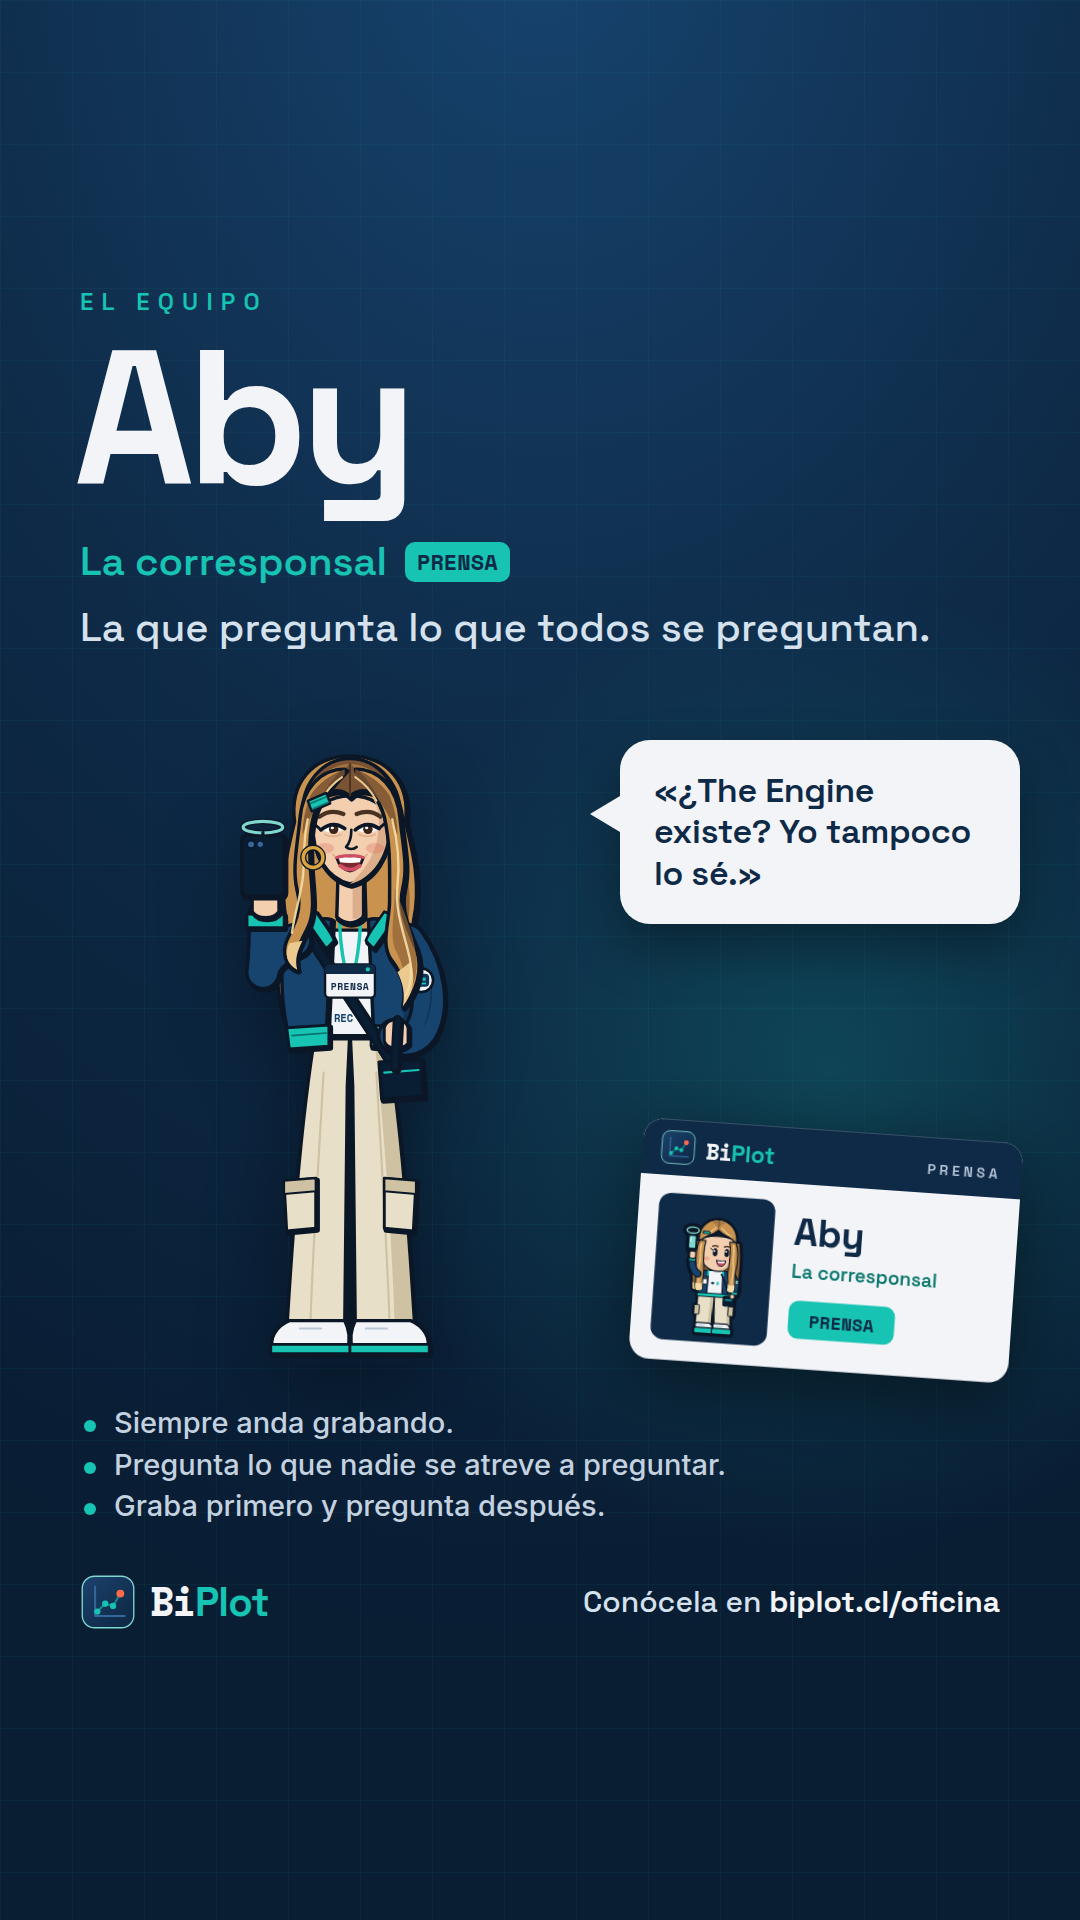
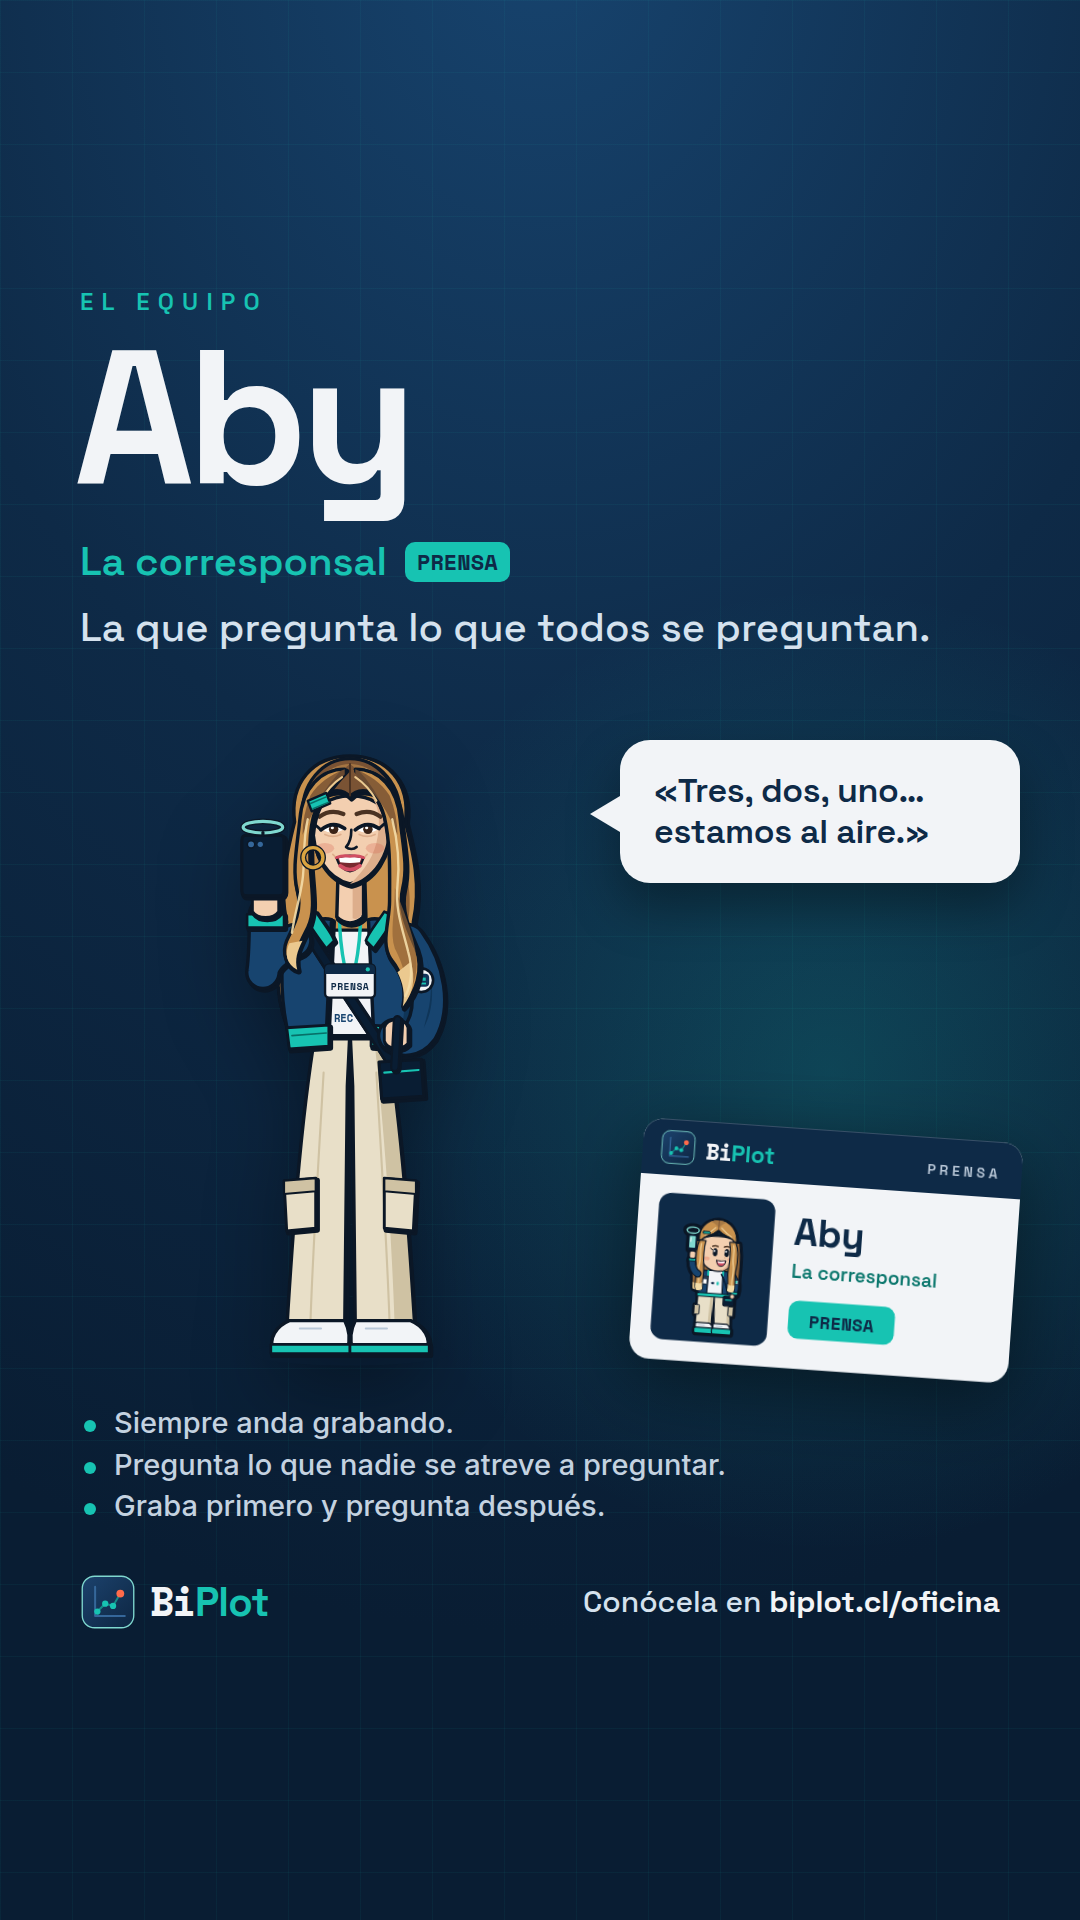
Oficina: frase nueva para Aby
«Tres, dos, uno… estamos al aire.» en su ficha de la oficina, en la
tabla del README y en sus fichas del kit (4:5 y 9:16). Como las demás,
es de ejemplo.

Claude-Session: https://claude.ai/code/session_01XFu8PzTDLVficwq4wDeinC

Changed region(s): [[0.55, 0.4062, 0.9472, 0.5]]

diff --git a/oficina/datos.js b/oficina/datos.js
@@ -109,7 +109,7 @@
         vive: 'set', lema: 'La que pregunta lo que todos se preguntan.',
         resumen: 'Entra a todas las salas con su pase de prensa. Pregunta lo que la gente se pregunta y casi nunca recibe una respuesta clara.',
         rasgos: ['Siempre anda grabando.', 'Pregunta lo que nadie se atreve a preguntar.', 'Graba primero y pregunta después.'],
-        frase: '¿The Engine existe? Yo tampoco lo sé.',
+        frase: 'Tres, dos, uno… estamos al aire.',
         look: 'Ondas largas color miel, aros dorados, bomber azul con el parche de Plotty, polera «REC» y el celular con aro de luz.',
         ahora: ['Grabando en el set.', 'Preguntándole a Kilo qué rompió hoy.', 'Buscando a The Engine con la cámara encendida.']
       },

diff --git a/oficina/README.md b/oficina/README.md
@@ -36,7 +36,7 @@ vestuario de gala para contenido y redes: su cabezón en `_herramientas/dibujos/
 | **Tamandúa** | Tomás Hormazábal | Validación | E6 | Su estación | «Si se puede romper, lo rompo yo antes.» |
 | **Faro** | Fausto Torres | Puesta en marcha | E7 | El tubo a producción | «No termina cuando se publica. Termina cuando se usa.» |
 | **Pepa** | Josefa Huerta | Cosecha | E9 | Estantería del núcleo | «Lo que sirve dos veces se guarda. Lo demás, se bota.» |
-| **Aby** | | La corresponsal | PRENSA | El set | «¿The Engine existe? Yo tampoco lo sé.» |
+| **Aby** | | La corresponsal | PRENSA | El set | «Tres, dos, uno… estamos al aire.» |
 | **Felipe** (Rodman) | | El rostro | PRENSA | El set, con Aby | «Pásala, que yo la cuento.» |
 | **Atlas** | | Mascota de The Architect | 360° | Sobre la mesa de dos | «Desde aquí arriba se ve todo.» |
 | **Plotty** | | Recepción | E0 | Recepción | «Tres preguntas. Prometo que no es un formulario.» |
